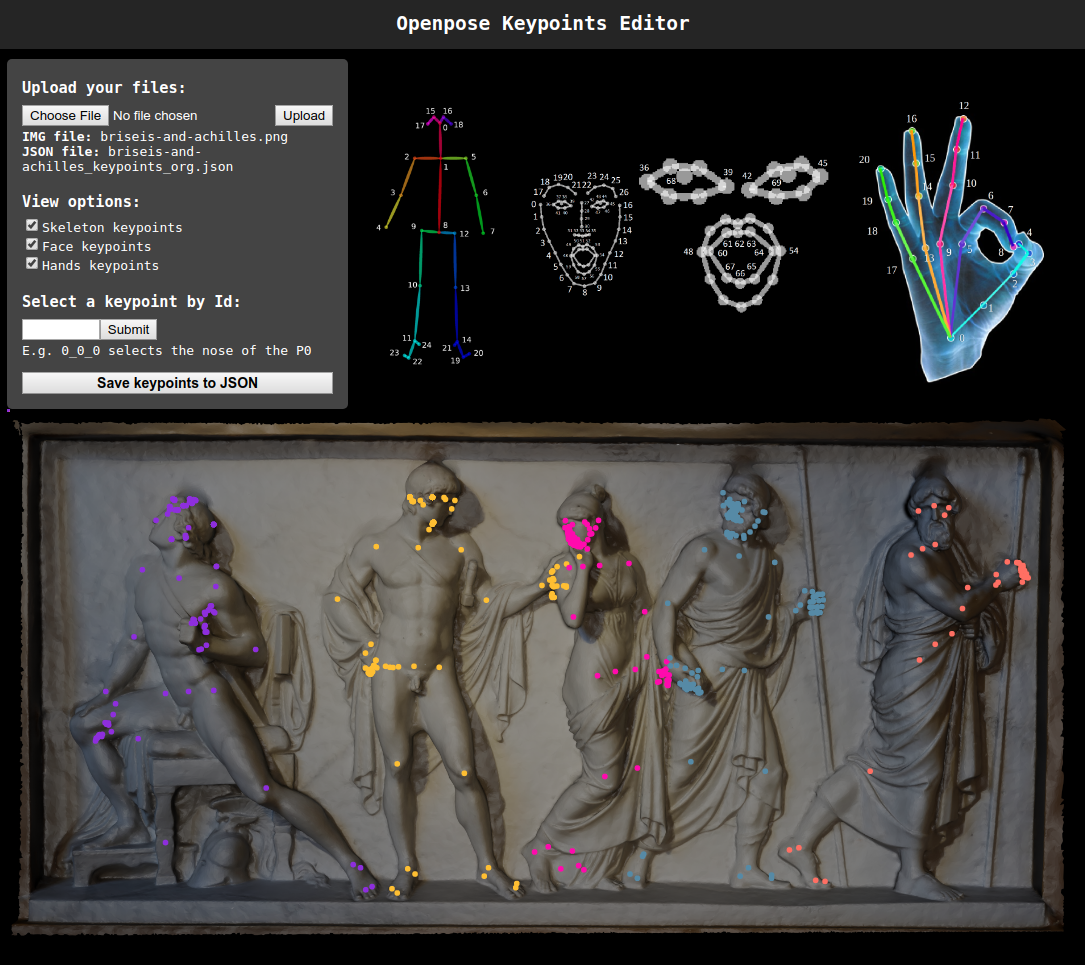
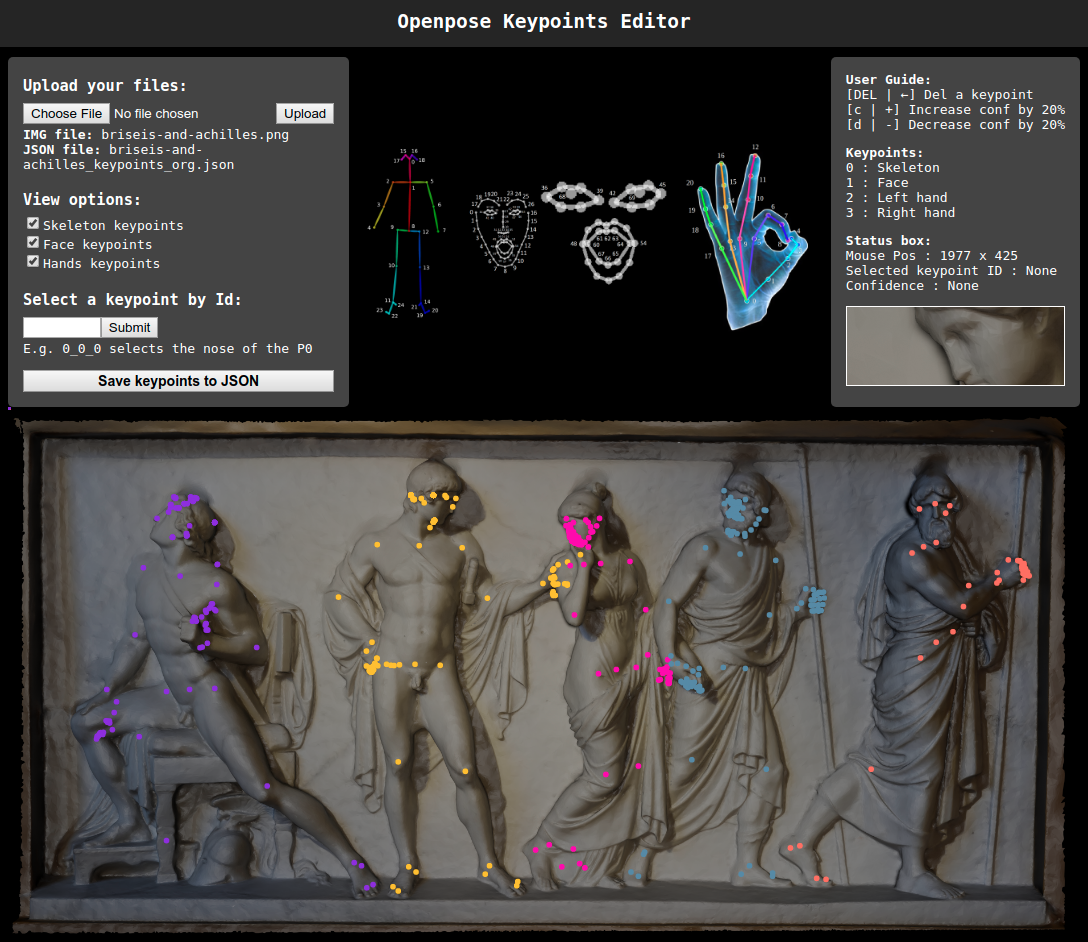
v1.5

diff --git a/static/skeleton.js b/static/skeleton.js
@@ -1,3 +1,9 @@
+
+var zoomImage = document.getElementById("zoomImage");
+var img = document.getElementById("myimage");
+zoomImage.style.backgroundImage = "url('" + img.src + "')";
+zoomImage.style.backgroundSize = img.naturalWidth + "px " + img.naturalHeight + "px";
+
 function makeDraggable(evt) {
     var svg = evt.target;
     var selectedElement = false;
@@ -14,6 +20,8 @@ function makeDraggable(evt) {
     svg.addEventListener('touchend', endDrag);
     svg.addEventListener('touchleave', endDrag);
     svg.addEventListener('touchcancel', endDrag);
+
+    svg.addEventListener('focus', function () { this.addEventListener('keyup', confidentKeypoint) }, svg);
     svg.addEventListener('focus', function () { this.addEventListener('keyup', deleteKeypoint) }, svg);
 
     function startDrag(evt) {
@@ -40,11 +48,16 @@ function makeDraggable(evt) {
     }
 
     function drag(evt) {
+        var coord = getMousePosition(evt);
         if (selectedElement) {
             evt.preventDefault();
-            var coord = getMousePosition(evt);
             selectedElementTransform.setTranslate(coord.x - offset.x, coord.y - offset.y);
         }
+        /* update status panel */
+        var x = Math.floor(coord.x);
+        var y = Math.floor(coord.y);
+        document.getElementById('mouseLocation').innerText = x + ' x ' + y;
+        zoomImage.style.backgroundPosition = -(x-zoomImage.offsetWidth/2) + "px " + -(y-zoomImage.offsetHeight/2) + "px";
     }
 
     function endDrag(evt) {
@@ -53,9 +66,9 @@ function makeDraggable(evt) {
             sendData(selectedElement.getAttribute('keypoint_id'),
                 selectedElementTransform.matrix.e,
                 selectedElementTransform.matrix.f,
-                1);
+                selectedElement.getAttribute('conf'));
 
-            updateData(selectedElement, selectedElementTransform.matrix.e, selectedElementTransform.matrix.f, 1)
+            updateData(selectedElement, selectedElementTransform.matrix.e, selectedElementTransform.matrix.f, selectedElement.getAttribute('conf'));
         }
         //stop glowing if on
         evt.target.classList.remove('glow');
@@ -75,12 +88,32 @@ function makeDraggable(evt) {
     }
     function deleteKeypoint(evt) {
         //if del or backspace is pressed, set the selected element to 0, 0 with confidence 0.
-        if ((evt.keyCode === 46) || (evt.keyCode == 8)) {
+        if ((evt.keyCode === 46) || (evt.keyCode === 8)) {
             if (lastSelectedElement) {
                 sendData(lastSelectedElement.getAttribute('keypoint_id'),
                     0, 0, 0.0);
                 updateData(lastSelectedElement, 0, 0, 0);
-                lastSelectedElement = null;
+            }
+        }
+    }
+    function confidentKeypoint(evt) {
+        // if c key is pressed, set conf of last selected element to conf+0.2
+        // if d key is pressed, set conf of last selected element to conf-0.2
+        if ((evt.keyCode === 67) || (evt.keyCode === 107) || // c or +
+            (evt.keyCode === 68) || (evt.keyCode === 109)) {  // d or -
+            if (lastSelectedElement) {
+                var new_conf = parseFloat(lastSelectedElement.getAttribute('conf'));
+                x = lastSelectedElement.transform.baseVal[0].matrix.e;
+                y = lastSelectedElement.transform.baseVal[0].matrix.f;
+                if ((evt.keyCode === 67) || (evt.keyCode == 107)) {
+                    new_conf = Math.min(1.0, new_conf + 0.2)
+                }
+                else {
+                    new_conf = Math.max(0.0, new_conf - 0.2)
+                }
+                sendData(lastSelectedElement.getAttribute('keypoint_id'),
+                    x, y, new_conf);
+                updateData(lastSelectedElement, x, y, new_conf);
             }
         }
     }
@@ -102,8 +135,15 @@ function sendData(keypoint_id, x, y, conf) {
 function updateData(selectedElement, x, y, conf) {
     selectedElement.setAttribute('conf', conf);
     selectedElement.transform.baseVal[0].setTranslate(x, y);
+
+    var confText = Math.floor(conf * 100)
+    var selectedKeyID = selectedElement.getAttribute('keypoint_id')
+
     var textElement = selectedElement.getElementsByTagName('text').tooltipText;
-    textElement.innerHTML = textElement.innerHTML.slice(0, textElement.innerHTML.indexOf(":") + 2) + Math.floor(conf * 100) + "%";
+    textElement.innerHTML = textElement.innerHTML.slice(0, textElement.innerHTML.indexOf(":") + 2) + confText + "%";
+    
+    document.getElementById('selectedKey').innerText = selectedKeyID;
+    document.getElementById('confidence').innerText = confText + '%';
 }
 
 // view options 
@@ -146,8 +186,6 @@ function searchKeypoint() {
 
     var cir_keypoint = document.querySelector('g[keypoint_id="' + searchKeyword + '"] circle');
     cir_keypoint.classList.add('glow');
-
-    return true;
 }
 
 // save keypoints to json

diff --git a/index.html b/index.html
@@ -32,7 +32,8 @@
       <div>
         <h3>Select a keypoint by Id:</h3>
         <form action="javascript:void(0);">
-          <input type="search" id="searchKeyword" pattern="[0-9]_[0-3]_[0-9]+" title="personid_categoryid_keypointid, Regex: [0-9]_[0-3]_[0-9]+">
+          <input type="search" id="searchKeyword" pattern="[0-9]_[0-3]_[0-9]+"
+            title="personid_categoryid_keypointid, Regex: [0-9]_[0-3]_[0-9]+">
           <input id="submitSearch" type="submit" onclick="searchKeypoint()">
         </form>
         <label>E.g. 0_0_0 selects the nose of the P0</label>
@@ -46,10 +47,42 @@
       <div><img src="static/keypoints_face.png" width="1004px" height="556px"></div>
       <div><img src="static/keypoints_hand.png" width="816px" height="1056px" style="filter: invert(1)"></div>
     </div>
+    <div id="guidePanel">
+      <div id="helpPanel">
+        <div>
+          <label><b>User Guide:</b></label>
+          <ul>
+            <li>[DEL | &larr;] Del a keypoint</li>
+            <li>[c | +] Increase conf by 20%</li>
+            <li>[d | -] Decrease conf by 20%</li>
+          </ul>
+        </div>
+        <div>
+          <label><b>Keypoints:</b></label>
+          <ul>
+            <li>0 : Skeleton</li>
+            <li>1 : Face</li>
+            <li>2 : Left hand</li>
+            <li>3 : Right hand</li>
+          </ul>
+        </div>
+      </div>
+      <div id="statusPanel">
+        <label><b>Status box:</b></label>
+        <ul>
+          <li>Mouse Pos : <label id="mouseLocation"></label></li>
+          <li>Selected keypoint ID : <label id="selectedKey">None</label></li>
+          <li>Confidence : <label id="confidence">None</label></li>
+        </ul>
+        <div id="zoomImage-container">
+          
+          <div id="zoomImage"></div>
+        </div>
+      </div>
+    </div>
   </div>
   <div class="img-overlay-wrap">
     <img id="myimage" src="{{ img_src }}">
-
     <svg xmlns="http://www.w3.org/2000/svg" viewBox="0 0 {{ img_size[0] }} {{ img_size[1] }}"
       onload="makeDraggable(evt)">
 
@@ -61,8 +94,6 @@
       </g>
       {% endfor %}
     </svg>
-    <script type="text/javascript" src="{{ url_for('static', filename='skeleton.js') }}"></script>
-
   </div>
-
+  <script type="text/javascript" src="{{ url_for('static', filename='skeleton.js') }}"></script>
 </body>

diff --git a/static/keyp.css b/static/keyp.css
@@ -80,6 +80,26 @@ h3 {
     object-fit: contain;
 }
 
+#guidePanel {
+    background: rgb(68, 68, 68);
+    border-radius: 5px;
+    padding: 5px 15px;
+}
+
+#guidePanel ul{
+    padding-inline-start: 0px;
+    margin-block-start: 0em;
+    list-style-type: none;
+}
+
+#zoomImage-container {
+    position: relative;
+  }
+#zoomImage {
+    border: 1px solid;
+    height: 100px;
+}
+
 .draggable {
     cursor: move;
   }
